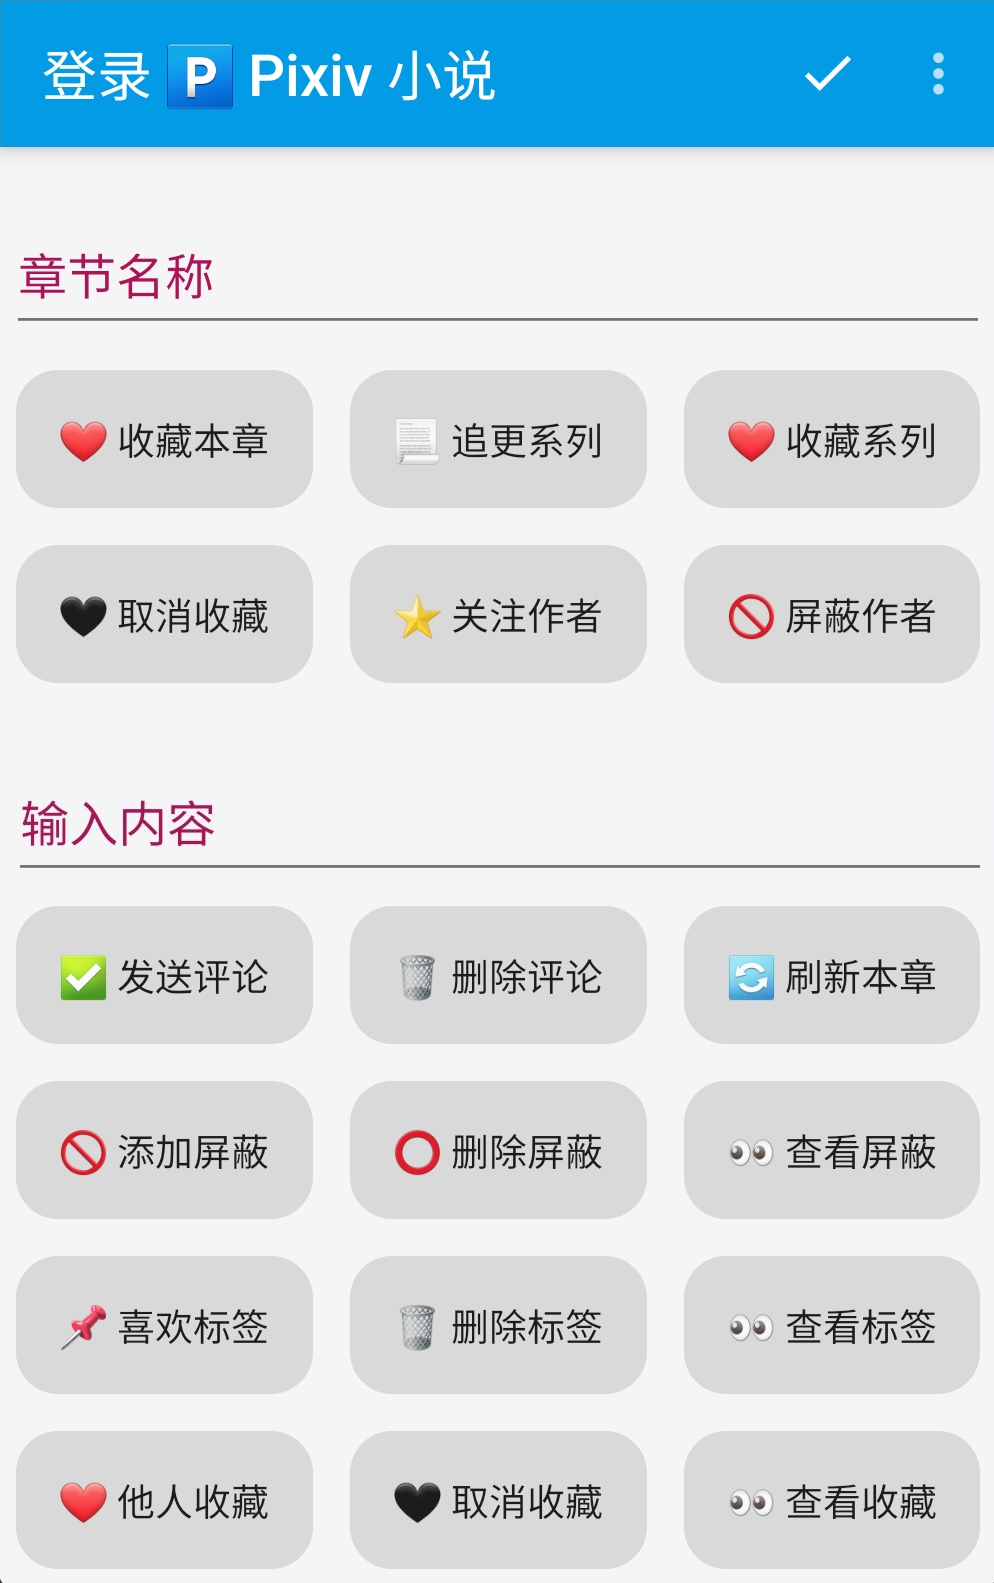
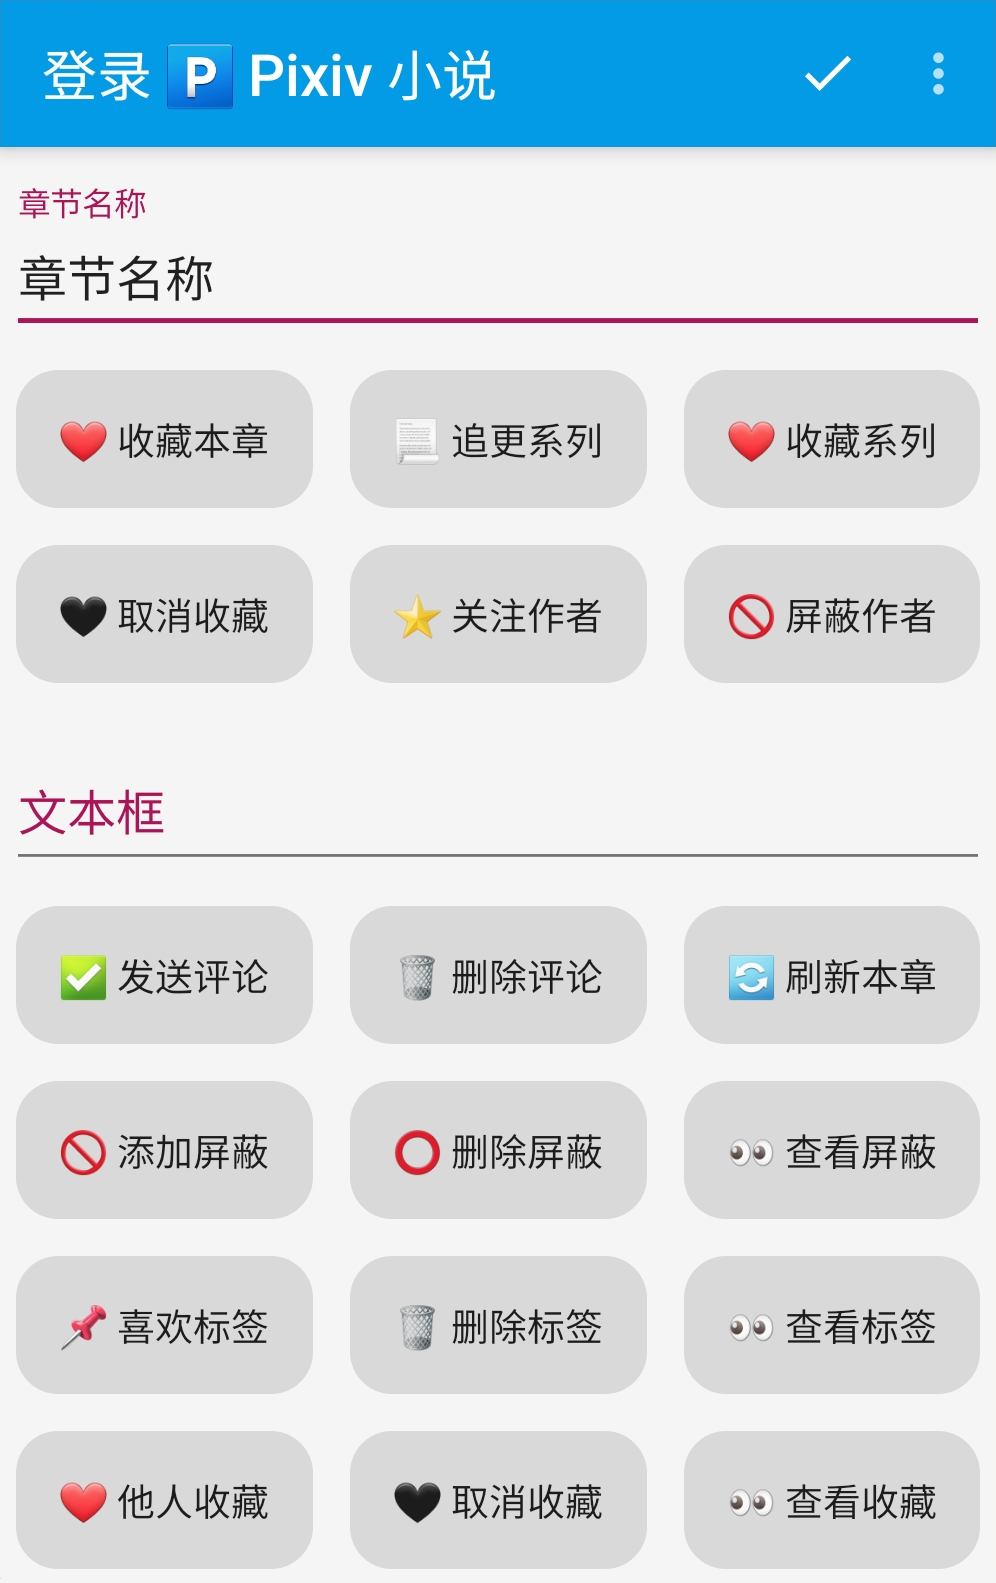
站点：更新教程，添加自定义功能

diff --git a/doc/BetterExperience.md b/doc/BetterExperience.md
@@ -193,6 +193,10 @@
 ![img](./pic/PixivIPDirect0.png)
 
 **直连模式，无需代理，即可获取小说**
+> [!TIP]
+>
+> **切换直连模式后，搜索、发现会自动启用直连链接**
+>
 
 ![img](./pic/PixivIPDirect.png)
 
@@ -280,6 +284,30 @@
 - **🔄 刷新本章：刷新章节正文（以及评论）**
 
 
+### ▶ 自定功能 {#Customization}
+> [!TIP]
+>
+> **▶ 自定功能 => 书架 - 阅读界面 - Pixiv 小说 - 登录**
+
+![img](./pic/PixivLoginUIFunctions.png)
+
+**本地屏蔽：**
+- **🚫 屏蔽关键词**
+  - 🚫 添加屏蔽、⭕ 取消屏蔽、👀 查看屏蔽（切换屏蔽标签、屏蔽描述、屏蔽作者）
+  - 详见：[屏蔽功能](Pixiv.md#Customization)
+- **🚫 屏蔽作者（互动功能，见上方）**
+  - 🚫 添加屏蔽、⭕ 取消屏蔽
+- **隐藏小说（书源设置，见下方）**
+  - ❤ 隐藏收藏、📃 隐藏追更
+
+**自定义发现：**
+- **📌 喜欢标签**
+  - 📌 添加标签、🗑 删除标签、👀 查看标签
+- **❤ 关注他人收藏**
+  - ❤ 添加收藏、🖤 取消关注、👀 查看关注
+- 详见：[发现功能](Pixiv.md#DiscoverNovel)
+
+
 ### ⚙ 书源设置 {#BookSourceSettings}
 > [!TIP]
 >
@@ -294,7 +322,7 @@
 
 - ⚙ 当前设置：显示当前设置
 - 🔧 默认设置：恢复默认设置
-- 👤 搜索作者：默认搜索作者
+- 👤 搜索作者：搜索作者（默认关闭）
 -
 - 🀄 繁简通搜：搜索进行繁简转换（搜索作者不转换）
 - 📖 更多简介：详情显示更多简介
@@ -305,10 +333,10 @@
 - 🖼 显示描述：章首显示描述
 -
 - 💬 显示评论：章尾显示评论
-- ❤ 显示收藏：搜索发现 显示/屏蔽 收藏单篇小说
-- 📃 显示追更：搜索发现 显示/屏蔽 追更系列小说
+- ❤ 隐藏收藏：搜索发现 显示/隐藏 收藏单篇小说
+- 📃 隐藏追更：搜索发现 显示/隐藏 追更系列小说
 -
-- ⏩ 快速模式：开启快速模式（关闭**默认搜索作者等**影响搜索速度的功能）
+- ⏩ 快速模式：开启快速模式（关闭影响搜索速度的功能）
 - 🐞 调试模式：开启调试模式
 - 🔍 搜索说明：显示搜索说明
 
